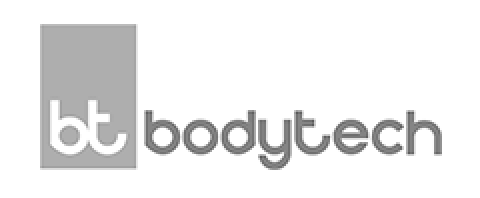
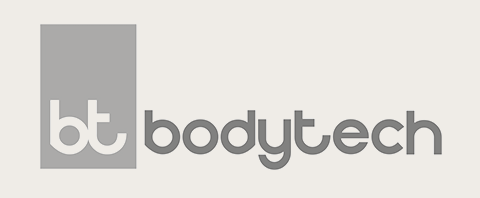
Implementando area patrocinadores home. Adicionando imagens do design final do slider

diff --git a/app/assets/stylesheets/sections/_home.sass b/app/assets/stylesheets/sections/_home.sass
@@ -64,6 +64,7 @@ img
           width: 100%
           top: 100px
           left: 10%
+          +hide-text
 
           +respond-to(smartphones)
             top: 40px
@@ -118,7 +119,7 @@ header.section-header
     font-weight: bold
     text-align: center
     text-transform: uppercase
-    +box-shadow(0 1px 0 $gray-lighter)
+    +box-shadow(0 1px 0 rgba($gray-light, .2))
     +margin-leader(0)
     +margin-trailer(2)
 
@@ -155,7 +156,6 @@ section.featured-projects
   
   .project-details
     +span-columns(5 omega, 8)
-
     +padding-leader(1)
     position: relative
 
@@ -238,3 +238,23 @@ section.featured-projects
   text-align: center
   +padding-leader(1)
   +padding-trailer(1)
+
+section.sponsors
+  background-color: #efece7
+  +padding-trailer(2)
+  +margin-leader(1)
+
+  .sponsors-inner
+    +container
+
+    h1
+      span
+        background-color: #efece7
+
+    ul
+      li
+        +span-columns(4,16)
+        +nth-omega(4n, of-type)
+        
+        img
+          margin: 0 auto

diff --git a/app/assets/stylesheets/shared/_footer.sass b/app/assets/stylesheets/shared/_footer.sass
@@ -2,7 +2,7 @@
   background-color: #333739
     
   #footer-page-inner
-    +margin-leader(2)
+    // +margin-leader(2)
     +padding-leader(1.5)
     +padding-trailer(1.5)
     
